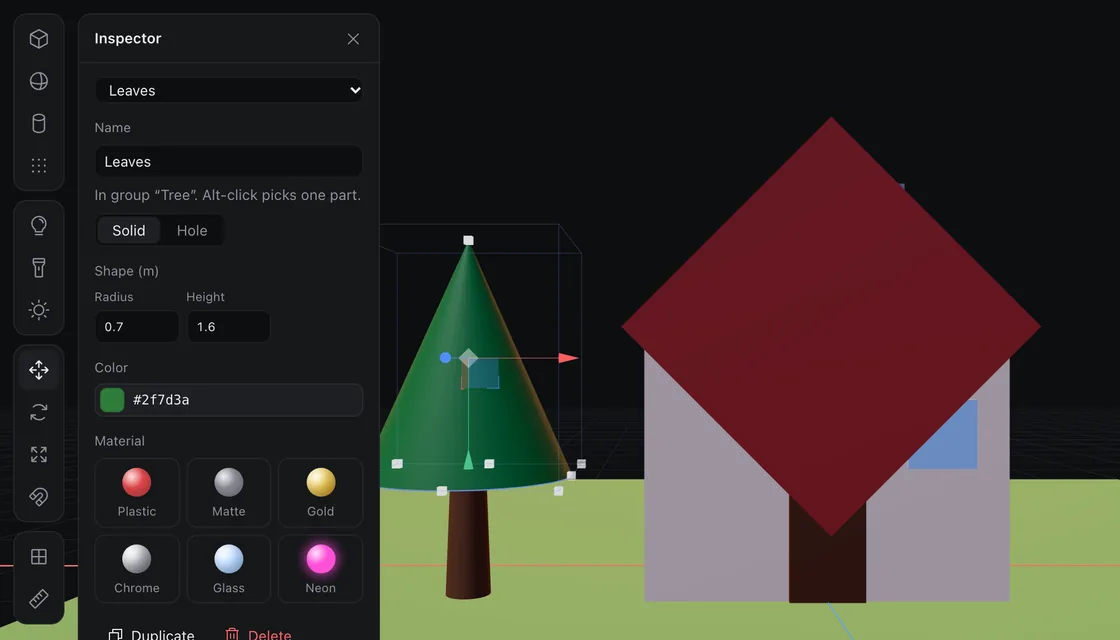
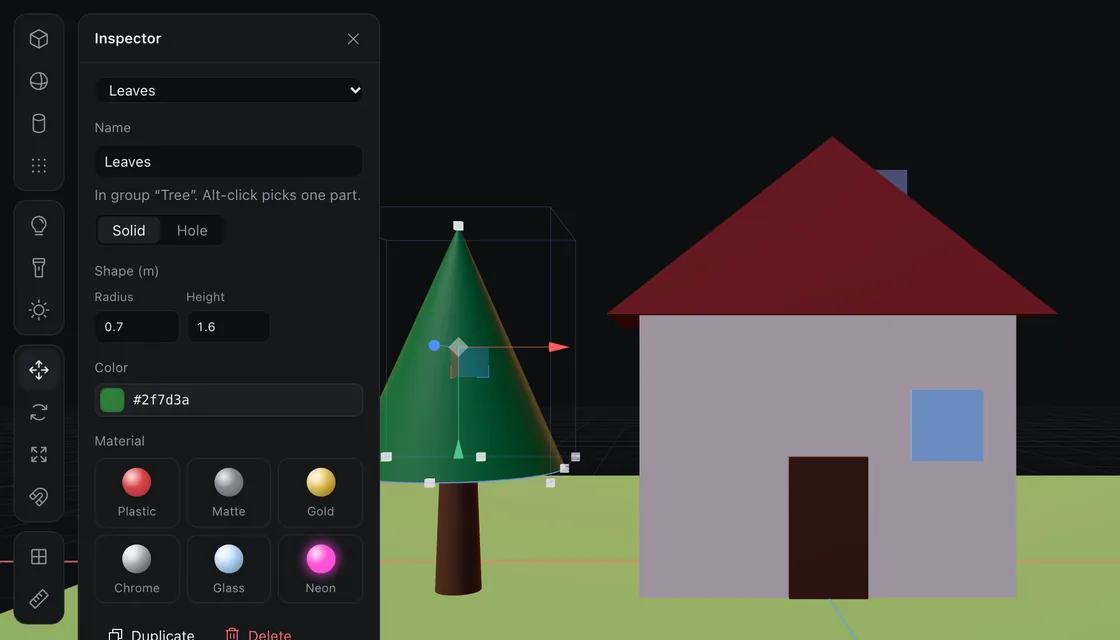
fix: give the house template a real roof

diff --git a/frontend/src/scene/templates.ts b/frontend/src/scene/templates.ts
@@ -72,7 +72,8 @@ const solarSystem: Command[] = [
 const house: Command[] = [
     { type: "add", primitive: "plane", name: "Lawn", geometry: { type: "plane", width: 10, height: 10 }, position: [0, 0, 0], color: "#6fae4f" },
     { type: "add", primitive: "box", name: "Walls", geometry: { type: "box", width: 2.4, height: 1.8, depth: 2 }, position: [0, 0.9, 0], color: "#f1e3c8" },
-    { type: "add", primitive: "box", name: "Roof", geometry: { type: "box", width: 2, height: 2, depth: 2.3 }, position: [0, 1.8, 0], rotation: [0, 0, Math.PI / 4], scale: [0.95, 0.95, 1], color: "#b5483a" },
+    // Sits on the walls, hanging a little past them on every side.
+    { type: "add", primitive: "roof", name: "Roof", geometry: { type: "roof", width: 2.8, height: 1.1, depth: 2.3 }, position: [0, 2.35, 0], color: "#b5483a" },
     { type: "add", primitive: "box", name: "Door", geometry: { type: "box", width: 0.5, height: 0.9, depth: 0.05 }, position: [0, 0.45, 1.01], color: "#6b4226" },
     { type: "add", primitive: "box", name: "Window", geometry: { type: "box", width: 0.45, height: 0.45, depth: 0.05 }, position: [0.75, 1.1, 1.01], color: "#a8d8ff" },
     { type: "add", primitive: "box", name: "Chimney", geometry: { type: "box", width: 0.3, height: 0.8, depth: 0.3 }, position: [0.7, 2.6, -0.4], color: "#8a8f99" },
